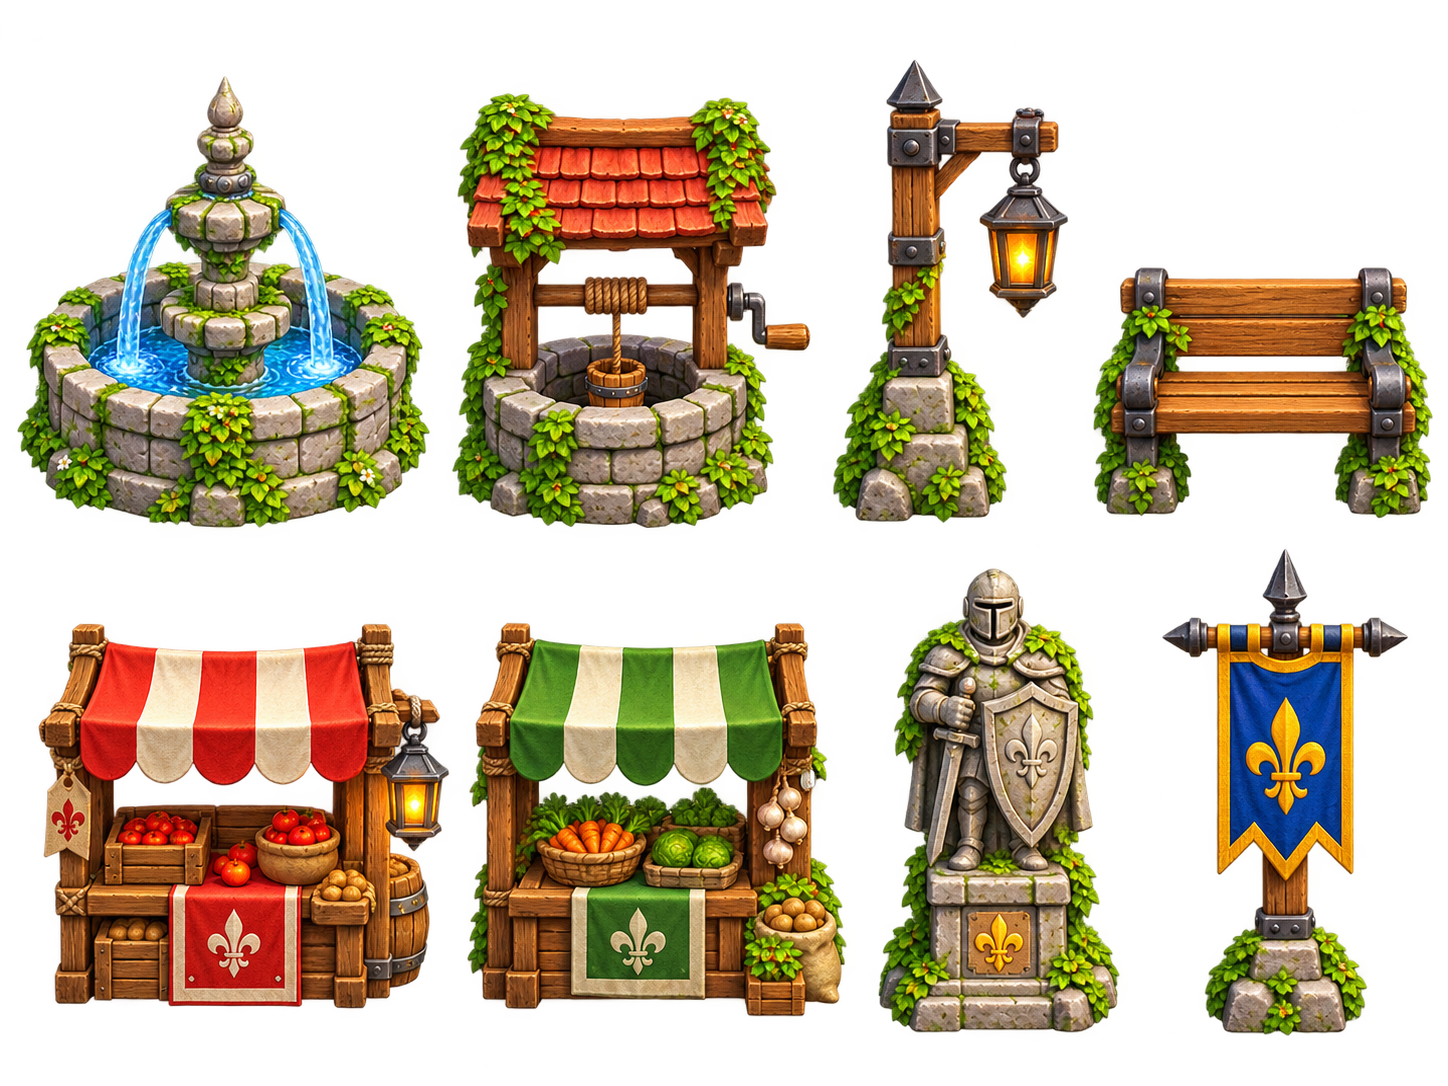
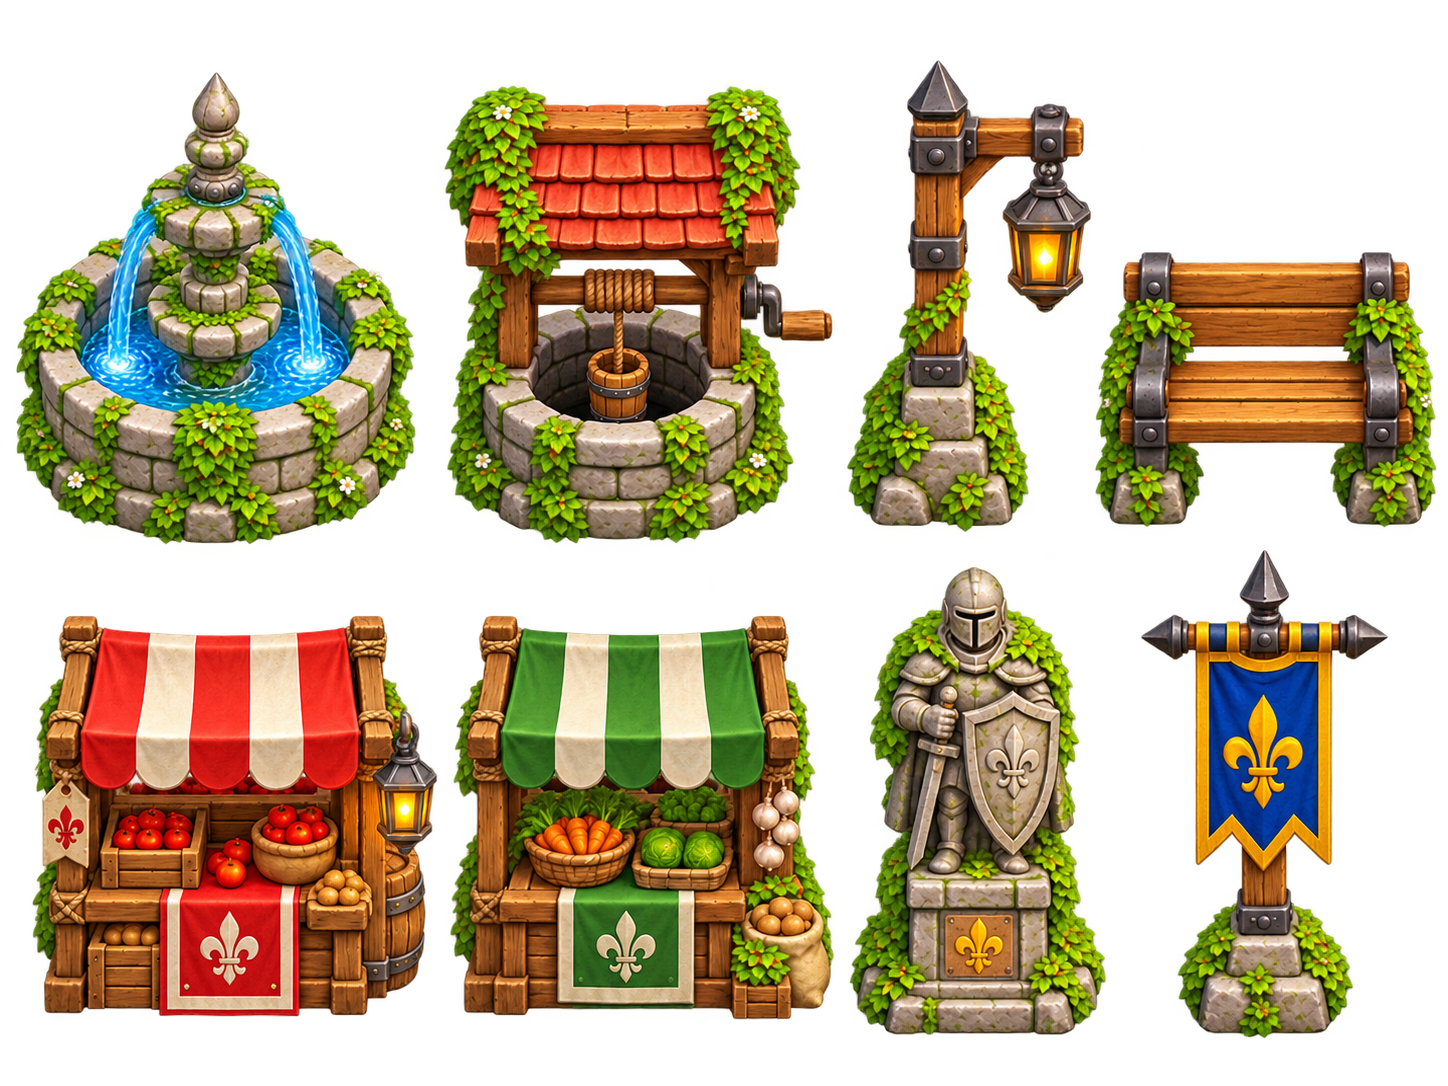
Sir Thomas passa atrás de árvores e objetos altos, que ficam transparentes; nova arte dos objetos da cidade A (ângulo corrigido)

diff --git a/src/billboard.js b/src/billboard.js
@@ -15,7 +15,11 @@ const FEET_DEPTH = `#include <project_vertex>
   vec4 fc = projectionMatrix * feet;
   gl_Position.z = fc.z / fc.w * gl_Position.w;
 }`;
-function patch(m) { m.onBeforeCompile = s => { s.vertexShader = s.vertexShader.replace('#include <project_vertex>', FEET_DEPTH); }; m.customProgramCacheKey = () => 'feetdepth'; return m; }
+// instFade (instanced sets only): per-instance opacity, used to fade a tree or statue that hides the player behind it
+function patch(m) { m.onBeforeCompile = s => {
+    s.vertexShader = 'varying float vFade;\n#ifdef USE_INSTANCING\nattribute float instFade;\n#endif\n' + s.vertexShader.replace('#include <project_vertex>', FEET_DEPTH + '\n#ifdef USE_INSTANCING\nvFade = instFade;\n#else\nvFade = 1.0;\n#endif');
+    s.fragmentShader = 'varying float vFade;\n' + s.fragmentShader.replace('#include <alphatest_fragment>', 'diffuseColor.a *= vFade;\n#include <alphatest_fragment>'); };
+  m.customProgramCacheKey = () => 'feetdepth-fade'; return m; }
 // Buildings get the same treatment per vertex: a wall pixel is written with the depth of the ground right under it, so a character
 // standing south of a wall paints over it and one standing north is covered by it, instead of the wall's top leaning over everyone.
 const GROUND_DEPTH = `#include <project_vertex>
@@ -57,7 +61,9 @@ export class ShadowSet {
 
 export class BillboardSet {
   // shadow: shadow width as a fraction of the sprite width (0 = no shadow)
-  constructor(scene, src, max, shadow = 0) { this.mesh = new THREE.InstancedMesh(geo, spriteMaterial(src), max); this.mesh.count = 0; this.mesh.frustumCulled = false; this.items = []; scene.add(this.mesh); this.m = new THREE.Matrix4(); this.q = new THREE.Quaternion(); this.p = new THREE.Vector3(); this.s = new THREE.Vector3(); this.shadowK = shadow; this.shadows = shadow > 0 ? new ShadowSet(scene, max) : null; }
+  constructor(scene, src, max, shadow = 0) { const g = geo.clone(); this.fade = new THREE.InstancedBufferAttribute(new Float32Array(max).fill(1), 1); g.setAttribute('instFade', this.fade); this.mesh = new THREE.InstancedMesh(g, spriteMaterial(src), max); this.mesh.count = 0; this.mesh.frustumCulled = false; this.items = []; scene.add(this.mesh); this.m = new THREE.Matrix4(); this.q = new THREE.Quaternion(); this.p = new THREE.Vector3(); this.s = new THREE.Vector3(); this.shadowK = shadow; this.shadows = shadow > 0 ? new ShadowSet(scene, max) : null; }
+  // fade one instance (0..1); returns nothing, marks the buffer only when something changed
+  setFade(i, a) { if (this.fade.array[i] !== a) { this.fade.array[i] = a; this.fade.needsUpdate = true; } }
   add(x, z, w, h, y = 0) { this.items.push({ x, y, z, w, h }); if (this.shadows) this.shadows.add(x, z, w * this.shadowK, w * this.shadowK * 0.5); }
   finalize() { this.mesh.count = this.items.length; this.face(0); if (this.shadows) this.shadows.finalize(); }
   face(yaw = VIEW.yaw, tilt = VIEW.tilt) { if (this.fy === yaw && this.ft === tilt && this.fn === this.items.length) return; this.fy = yaw; this.ft = tilt; this.fn = this.items.length;   // the camera never turns: rebuild only when something changed

diff --git a/src/player.js b/src/player.js
@@ -25,7 +25,7 @@ export class Player {
     const look = { hair: '#5a2d12', tunic: '#2b5fc7', legs: '#1e46a8', trim: '#f6c12e' };
     let frames = Assets.has('sheet_thomas') ? Assets.animAuto('sheet_thomas') : null; if (!frames && !Assets.has('sprite_thomas')) frames = S.humanFrames(look);
     const src = frames ? frames.down[0] : Assets.has('sprite_thomas') ? Assets.images.sprite_thomas : S.human(look);
-    this.h = 1.9; this.w = this.h * src.width / src.height; this.mesh = makeBillboard(src, this.w, this.h, true); this.mesh.material.depthTest = false; this.mesh.renderOrder = 20; game.scene.add(this.mesh);   // always visible, even behind roofs and trees
+    this.h = 1.9; this.w = this.h * src.width / src.height; this.mesh = makeBillboard(src, this.w, this.h, true); game.scene.add(this.mesh);   // depth by the feet like every sprite: trees and statues in front of Thomas cover him (and fade, see City.fadeSprites)
     this.walker = new Walker(this.mesh, frames); this.running = false;
     // optional extra sheets in the same 4-direction layout: attack (3 frames: wind-up, strike, follow-through) and block
     this.atkFrames = frames && Assets.has('sheet_thomas_attack') ? Assets.animAuto('sheet_thomas_attack', Math.max(1, Math.round(Assets.images.sheet_thomas_attack.width / (Assets.images.sheet_thomas.width / 3)))) : null; this.blockFrames = frames && Assets.has('sheet_thomas_block') ? Assets.animAuto('sheet_thomas_block') : null;

diff --git a/src/city.js b/src/city.js
@@ -85,6 +85,11 @@ export class City {
   fset(model, max = 400, shadow = true) { if (!Models.has(model)) return this.artSet(model, model, max); return this.f3d[model] || (this.f3d[model] = new PropSet(this.scene, model, max, { shadow })); }
   // banners were placed on walls for the 3D era; on the ground they must stand just outside any wall or building
   unstickBanners() { const b = this.sets.banner; if (!b || !b.items) return; for (const it of b.items) { const [x, z] = this.nearestFree(it.x, it.z, 0.7); it.x = x; it.z = z; } b.fy = null; b.face(); }
+  // tall sprites (trees, cliffs, statues, stalls...) standing just south of the player and covering him turn see-through
+  fadeSprites(px, pz) {
+    if (!this.tall) { this.tall = []; for (const s of Object.values(this.sets)) { if (!s.items || !s.setFade) continue; s.items.forEach((it, i) => { if (it.h >= 1.6) this.tall.push({ s, i, it }); }); } }
+    for (const t of this.tall) { const it = t.it, dz = it.z - pz, near = dz > 0 && dz < it.h * 0.85 && Math.abs(it.x - px) < it.w * 0.42; if (near) t.on = true; if (near || t.on) { t.s.setFade(t.i, near ? 0.38 : 1); if (!near) t.on = false; } }
+  }
   faceAll() { for (const s of Object.values(this.sets)) s.face(); }
   spot(kind, x, z) { (this.spots[kind] = this.spots[kind] || []).push([x, z]); }
 

diff --git a/src/main.js b/src/main.js
@@ -269,7 +269,7 @@ class Game {
       p.update(dt); this.chasers = this.nextChasers || []; this.nextChasers = [];
       this.separatePeople(dt);
       for (const e of this.entities) e.update(dt); this.entities = this.entities.filter(e => !e.removed);
-      this.city.faceAll(); this.city.fadeNear(p.pos.x, p.pos.z, dt); this.city.update(dt, this.time); this.sky.update(p.pos); this.snow.update(dt, p.pos, this.city.winter);
+      this.city.faceAll(); this.city.fadeNear(p.pos.x, p.pos.z, dt); this.city.fadeSprites(p.pos.x, p.pos.z); this.city.update(dt, this.time); this.sky.update(p.pos); this.snow.update(dt, p.pos, this.city.winter);
       this.lantern.position.set(p.pos.x, 1.6, p.pos.z);
       const under = this.city.inSewer(p.pos.x, p.pos.z) || this.city.inCave(p.pos.x, p.pos.z) || this.city.inCrypt(p.pos.x, p.pos.z);
       this.lantern.intensity = (under ? 12 : this.day.dark * 10 + (this.day.base === 'winter' ? 3 : 0)) + (p.leftItem === 'torch' ? 6 + Math.sin(this.time * 12) * 1.5 : 0);
